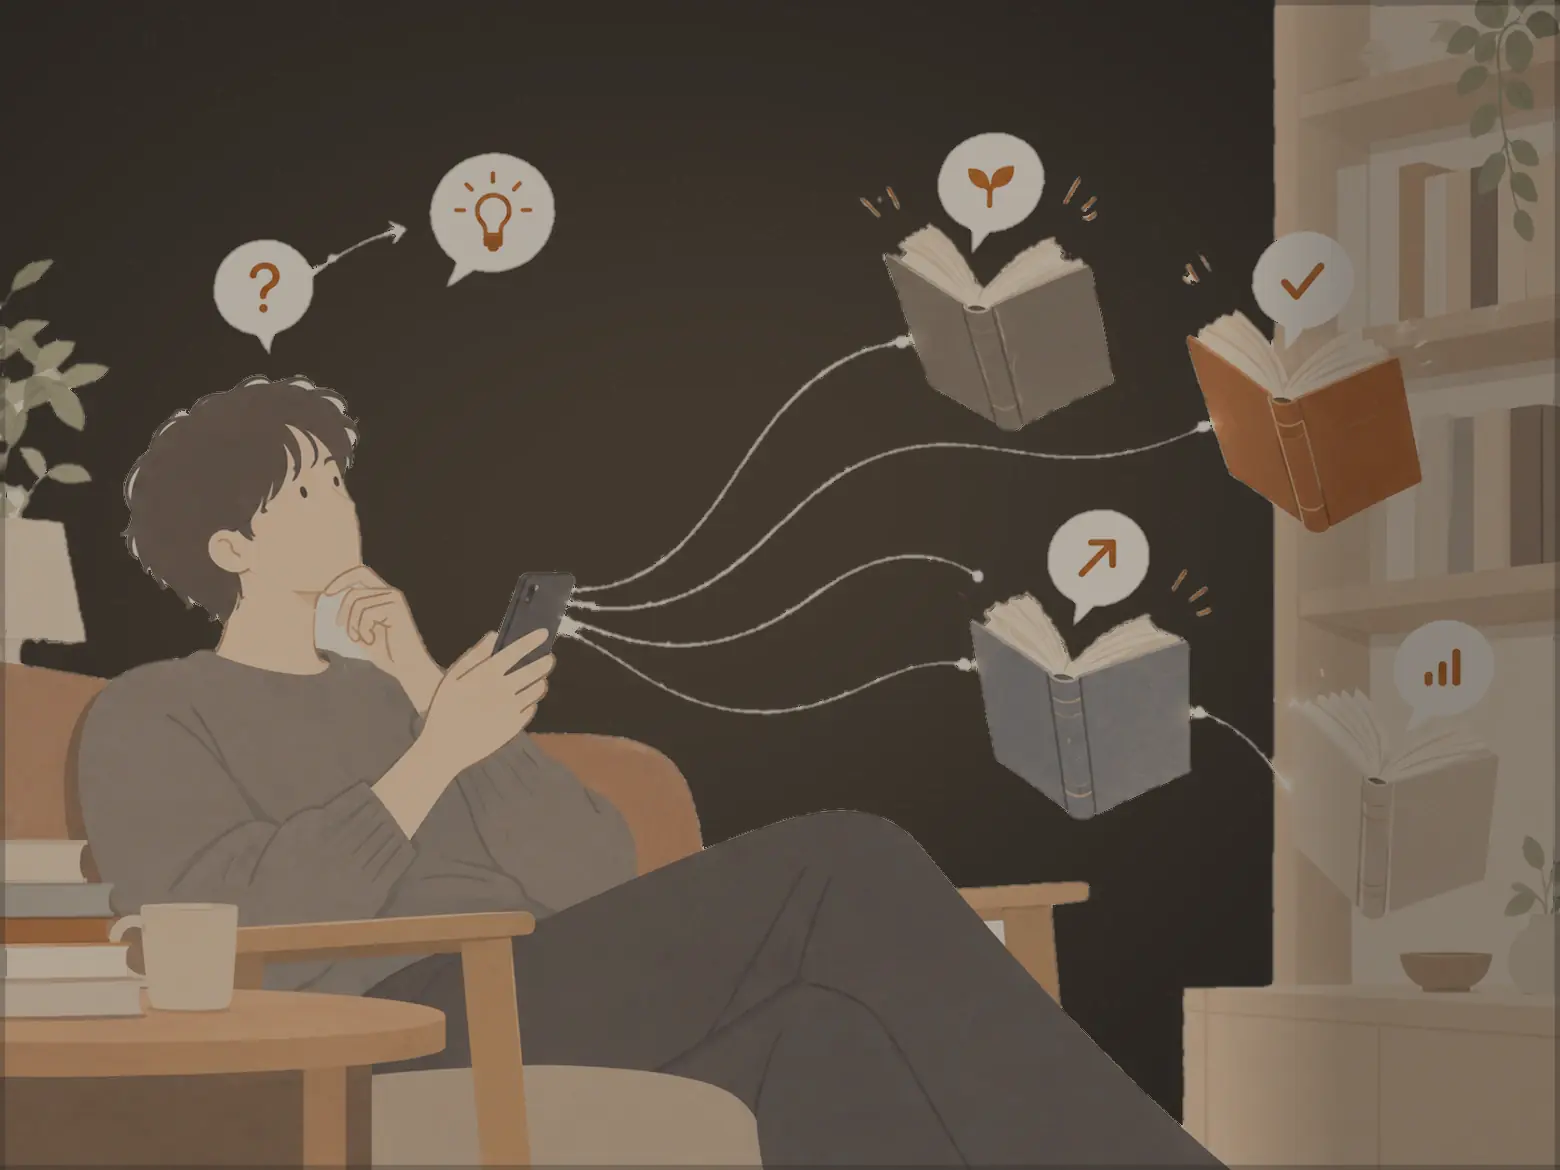
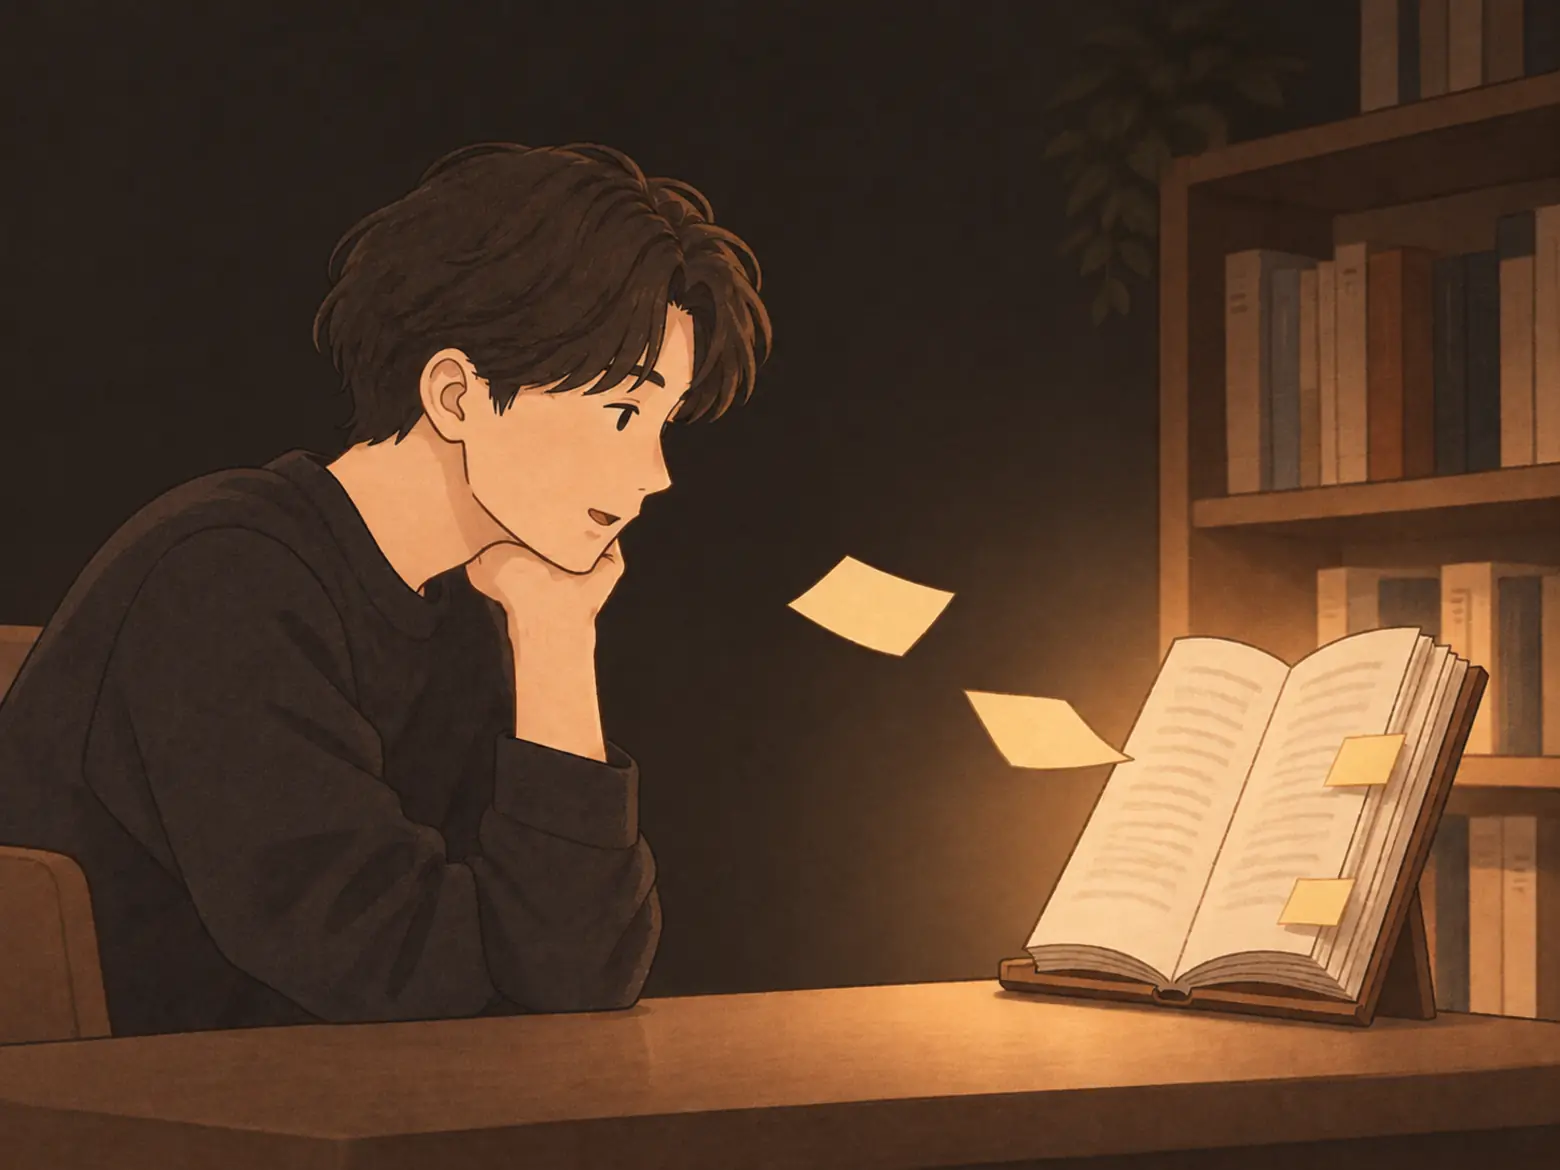
feat: LP のヒーローの絵を「本と差し向かいで話す」新しい絵に（明暗の 2 枚）
Claude-Session: https://claude.ai/code/session_01CJtCb5D8mXkG5XEeRMX4M7

diff --git a/src/pages/LpIllust.jsx b/src/pages/LpIllust.jsx
@@ -26,7 +26,7 @@ const BOOK_H = 56;
 const CARD = { x: 100, y: 184, w: 160, h: 58 };
 const CX = CARD.x + CARD.w / 2;
 
-export const ILLUST_LABEL = 'スマホで本に相談すると、本棚の本が答えてくれる様子のイラスト';
+export const ILLUST_LABEL = '机の向かいに立てた本と、差し向かいで話している人のイラスト。本のページから付箋が人の方へ向かっている'; // 2026-11-23 オーナーの新しい絵（スマホではなく本と会話する）
 // 予備の SVG（画像が読めないとき）の読み上げ
 const SVG_LABEL = 'いろいろな本から吹き出しが出て、真ん中の「あなたの一行」のメモに集まり、そこから「明日の一歩」へつながる絵';
 

diff --git a/src/pages/landing.css b/src/pages/landing.css
@@ -371,7 +371,7 @@ body.lp-active {
 .lp-narrow > picture:has(.lp-art-wide) { display: block; }
 @media (prefers-color-scheme: dark) {
   .lp-illust-img { border: 1px solid var(--separator); }
-  .lp-illust-img:not(.has-dark) { filter: brightness(0.62) saturate(0.85); } /* 暗い画面用の版が無い絵だけ（ヒーローは 2026-11-23 に hero-illust-dark-*.webp＝壁を夜の色にした版を置いた） */
+  .lp-illust-img:not(.has-dark) { filter: brightness(0.62) saturate(0.85); } /* 暗い画面用の版が無い絵だけ（ヒーローは 2026-11-23 にオーナーの暗い版 hero-illust-dark-*.webp を置いた） */
 }
 .lp-ill-book rect { stroke: var(--border); stroke-width: 1.25; }
 .lp-ill-book-a rect { fill: var(--surface); }

diff --git a/SPEC.md b/SPEC.md
@@ -254,7 +254,7 @@
 - エッジケース：同時に 2 か所から聞かれてもシートは 1 枚。シートはメモを書くシート・設定の上に重なる（`BottomSheet` の `layer="dialog"`）。サーバーは同意で止めない（この版では・`docs/ai-routing.md`）。
 
 ### 1-4. LP（紹介ページ・ログインしていない人の「/」と「/lp」）
-- **いまの形（2026-11-23 リリース前の仕上げ・ここがいちばん新しい・下の古い記録より優先）**：並びは **ヒーロー**（h1「読んだ本が、相談相手になる。」＋3 行「「あの著者なら、どう考える？」／読んだ本と、もう一度出会い、会話する。／あなたが残した読書メモをもとに、AI がその本の考え方で答えます。」＋主ボタン「読んだ本と話してみる」＋15/`--text-2`「iPhone のアプリで、無料プランから始められます。」＋文字のリンク「相談の見本を見る」）→ **たとえば、こんな相談。**（`#lp-grow`・実際の 1 つの相談＝問い → 答え＋もとのメモの引用（明朝・左に栗色の線・「『考え方』に残したメモなど 3 件から」）→ あなたに聞きたいこと → 返事 → 明日からできる一歩 → 行動リストに入る・注記は会話の真下に 1 回「この会話は見本です。実際の答えは、あなたのメモによって変わります。／答えは AI が作るもので、著者本人の言葉ではありません。」・広い画面は左に見出し（上に残る）・右に会話）→ **答えのもとは、あなたのメモ。**（2 行・聞く相手は、選べます＝1 冊／何冊か／本棚ぜんぶ・「相談するたびに、読んだことを思い出すきっかけになります。」）→ **メモがゼロでも、今日から。**（帯・取り込む／ページを撮ってメモに／一行から相談する）→ **薦めたい本は、リンク 1 つで。**（2026-11-23 オーナー「本棚のシェアやフォローは拡散の重要な要素・LP に必ず入れる・優秀な社会人はおすすめの本を教える」「近日公開（文言は変えて）の形で」・`data-lp-sec="social"`・帯（上の帯とは 1 本の線）・見出しの上に印「まもなく使えます」（`--accent-soft` の面・出たら消す）→ リード 2 行「「この本、読んでみて」と、後輩や同僚に薦めるとき。／リンクを送れば、相手はアプリがなくても、あなたのまとめを読めます。」→ 公開のページの画面写真 2 枚（この本を共有＝共有した 1 冊のページ／本棚を見せる＝名前・フォロー・本棚・`scripts/lp-social-shots.mjs` が `api/_profilePage.js` を見本の人の本で 320 幅に描き、上に住所の行を足し、区切りの良い所（Amazon の行・最初の段の本の下 16）で切って撮る・端末の枠ではなく 4 辺の閉じた角丸 12 の札・スマホは横に送る 80vw＋札の上に左ぞろえの題・広い画面は左に 2 枚（各 `--lp-shot-w`）・右に 3 つ（画像の高さの中央・題は出さない））＋3 つ（この本を共有／本棚を見せる／フォロー）。**補足・注意書きの一文は置かない**（同日オーナー「公開するかどうかは、あなたが決めます…のような文章は蛇足なので不要」）→ **ほかにできること**（大きな 2 枚＝読書計画シート・AI 選書（有料プラン）＋ 4 行＝目標から逆算・時間を決めて読む・一文を画像に・記録の基本）→ **料金**（無料プラン・月額・年額のカード（広い画面は中身の高さ）→ 1 日あたりの物差し（題 → 図＋「どちらも、ほぼ同じ値段です。」→ 注記を左ぞろえの 1 列）→ 創業メンバー価格の表＝期限は年つき・価格は「1 年目 ¥9,800（税込）。2 年目から年額 ¥12,800（税込）で自動更新」・期間中は表の「ご注意」に「期間中は 7 日間無料なし」（期限と 7 日間無料は表の 1 か所だけ）→ ボタン「読んだ本と話してみる」（広い画面は右に QR）＋「iPhone のアプリで、無料プランから始められます。」＝判断に要る情報を読み終えた所に 1 つ）→ **よくある質問**（何をもとに／メモがなくても始められるか／Android・パソコン／通常の AI との違い／無料プラン（「はじめの 2 か月」の定義つき）／7 日間無料（期間中だけ）／解約／学習）→ **最後の入口**（「今日の一行が、いつかのあなたの答えになる。」＋主ボタン「読んだ本と話してみる」）。主ボタンはヒーロー・下の固定の帯・最後とも同じ名前、ヘッダー（広い画面）は「App Store で入手」。やめたもの: 困りごとの節・2 本目の会話（`SCENE`）・4 段の図・忘却曲線と研究の名前・読書の輪の図（効果をほのめかさない）・目標の節（ほかにできることの 1 行に）・出ている iPhone のアプリに無い機能（本棚を撮って登録）。タイトルは「Orime｜読んだ本が、相談相手になる読書メモアプリ」。点検は `node scripts/lp-audit-shots.mjs <出力> http://localhost:4173/lp`（`npm run build && npx vite preview` のあと＝本番と同じ env）。
+- **いまの形（2026-11-23 リリース前の仕上げ・ここがいちばん新しい・下の古い記録より優先）**：並びは **ヒーロー**（h1「読んだ本が、相談相手になる。」＋3 行「「あの著者なら、どう考える？」／読んだ本と、もう一度出会い、会話する。／あなたが残した読書メモをもとに、AI がその本の考え方で答えます。」＋主ボタン「読んだ本と話してみる」＋15/`--text-2`「iPhone のアプリで、無料プランから始められます。」＋文字のリンク「相談の見本を見る」・絵は 2026-11-23 オーナーの新しい絵＝机の向かいに立てた本と差し向かいで話す人・本のページから付箋が人の方へ（オーナー「スマホと会話している感じは嫌だ・本と会話しているのを表したい」・明暗の 2 枚 `hero-illust-light|dark-*`・スマホは描かない））→ **たとえば、こんな相談。**（`#lp-grow`・実際の 1 つの相談＝問い → 答え＋もとのメモの引用（明朝・左に栗色の線・「『考え方』に残したメモなど 3 件から」）→ あなたに聞きたいこと → 返事 → 明日からできる一歩 → 行動リストに入る・注記は会話の真下に 1 回「この会話は見本です。実際の答えは、あなたのメモによって変わります。／答えは AI が作るもので、著者本人の言葉ではありません。」・広い画面は左に見出し（上に残る）・右に会話）→ **答えのもとは、あなたのメモ。**（2 行・聞く相手は、選べます＝1 冊／何冊か／本棚ぜんぶ・「相談するたびに、読んだことを思い出すきっかけになります。」）→ **メモがゼロでも、今日から。**（帯・取り込む／ページを撮ってメモに／一行から相談する）→ **薦めたい本は、リンク 1 つで。**（2026-11-23 オーナー「本棚のシェアやフォローは拡散の重要な要素・LP に必ず入れる・優秀な社会人はおすすめの本を教える」「近日公開（文言は変えて）の形で」・`data-lp-sec="social"`・帯（上の帯とは 1 本の線）・見出しの上に印「まもなく使えます」（`--accent-soft` の面・出たら消す）→ リード 2 行「「この本、読んでみて」と、後輩や同僚に薦めるとき。／リンクを送れば、相手はアプリがなくても、あなたのまとめを読めます。」→ 公開のページの画面写真 2 枚（この本を共有＝共有した 1 冊のページ／本棚を見せる＝名前・フォロー・本棚・`scripts/lp-social-shots.mjs` が `api/_profilePage.js` を見本の人の本で 320 幅に描き、上に住所の行を足し、区切りの良い所（Amazon の行・最初の段の本の下 16）で切って撮る・端末の枠ではなく 4 辺の閉じた角丸 12 の札・スマホは横に送る 80vw＋札の上に左ぞろえの題・広い画面は左に 2 枚（各 `--lp-shot-w`）・右に 3 つ（画像の高さの中央・題は出さない））＋3 つ（この本を共有／本棚を見せる／フォロー）。**補足・注意書きの一文は置かない**（同日オーナー「公開するかどうかは、あなたが決めます…のような文章は蛇足なので不要」）→ **ほかにできること**（大きな 2 枚＝読書計画シート・AI 選書（有料プラン）＋ 4 行＝目標から逆算・時間を決めて読む・一文を画像に・記録の基本）→ **料金**（無料プラン・月額・年額のカード（広い画面は中身の高さ）→ 1 日あたりの物差し（題 → 図＋「どちらも、ほぼ同じ値段です。」→ 注記を左ぞろえの 1 列）→ 創業メンバー価格の表＝期限は年つき・価格は「1 年目 ¥9,800（税込）。2 年目から年額 ¥12,800（税込）で自動更新」・期間中は表の「ご注意」に「期間中は 7 日間無料なし」（期限と 7 日間無料は表の 1 か所だけ）→ ボタン「読んだ本と話してみる」（広い画面は右に QR）＋「iPhone のアプリで、無料プランから始められます。」＝判断に要る情報を読み終えた所に 1 つ）→ **よくある質問**（何をもとに／メモがなくても始められるか／Android・パソコン／通常の AI との違い／無料プラン（「はじめの 2 か月」の定義つき）／7 日間無料（期間中だけ）／解約／学習）→ **最後の入口**（「今日の一行が、いつかのあなたの答えになる。」＋主ボタン「読んだ本と話してみる」）。主ボタンはヒーロー・下の固定の帯・最後とも同じ名前、ヘッダー（広い画面）は「App Store で入手」。やめたもの: 困りごとの節・2 本目の会話（`SCENE`）・4 段の図・忘却曲線と研究の名前・読書の輪の図（効果をほのめかさない）・目標の節（ほかにできることの 1 行に）・出ている iPhone のアプリに無い機能（本棚を撮って登録）。タイトルは「Orime｜読んだ本が、相談相手になる読書メモアプリ」。点検は `node scripts/lp-audit-shots.mjs <出力> http://localhost:4173/lp`（`npm run build && npx vite preview` のあと＝本番と同じ env）。
 - （2026-11-15 オーナー「目標・ロードマップ・読書計画カレンダーの内容も LP に入れたい」）なぜ効くの節のあと・ほかにできることの前に **「1 年後の自分から、逆算して読む。」**（`data-lp-sec="goal"`・帯にしない）: リード 2 行（「1 年後・3 年後・5 年後の目標を書いて、「達成するには？」に答える。」「必要なこと、今の課題、読む本の順番が、1 本の道のりになります。」）→ 図（`LpGoalDiagram.jsx`＝流れの図と同じ形・目標 › 達成するには？ › ロードマップ › 読む本のカレンダー）→ 2 台の画面を横に（`goal-road`＝道のり・`goal-plan`＝カレンダー・`npm run lp:shots -- goal-road goal-plan`・下に 2 行の説明）→ 1 文「相談や AI 選書で、まだ書いていなかった課題が見えたら、／ロードマップと読書計画も、あとから育っていきます。」→ 注記「画面は見本です。目標と答えによって、道のりは変わります。」。文は `lpCopy.js` の `GOAL_SEC`（言い切らない・数字の目標を作らない）。
 （2026-10-05 にマーケティングの 4 つの報告で作り直し → 2026-10-11 に公開している前提・「読書を、受け身から対話へ」で作り直し（同日オーナー「対話は違和感がある」で LP の「対話」は「会話」に＝見出し「読んだ本と、会話しよう。」）＝訴求の正は `company/marketing-master-plan-2026-10.md` §0）
 - **役割（1 文）**：「**読んだ本と、会話しよう。**」を実画面（1 冊の本に相談し、本の語り口で答えている所）で見せて、App Store から入手してもらう。相手は読書の成果を最大にしたい人・読書を習慣にしたい人・意識の高い社会人・大学生（立場では絞らない・チーム向けは書かない）。「著者と話せる」とは書かず「本の語り口で答える」「本と会話する」まで。語り口の注記（「答えは、AI が本とあなたのメモから語り口をまねたもので、著者本人の言葉ではありません。」）はヒーローの写真の下の 1 か所（`lpCopy.js` の `VOICE_NOTE`・FAQ にも）。
